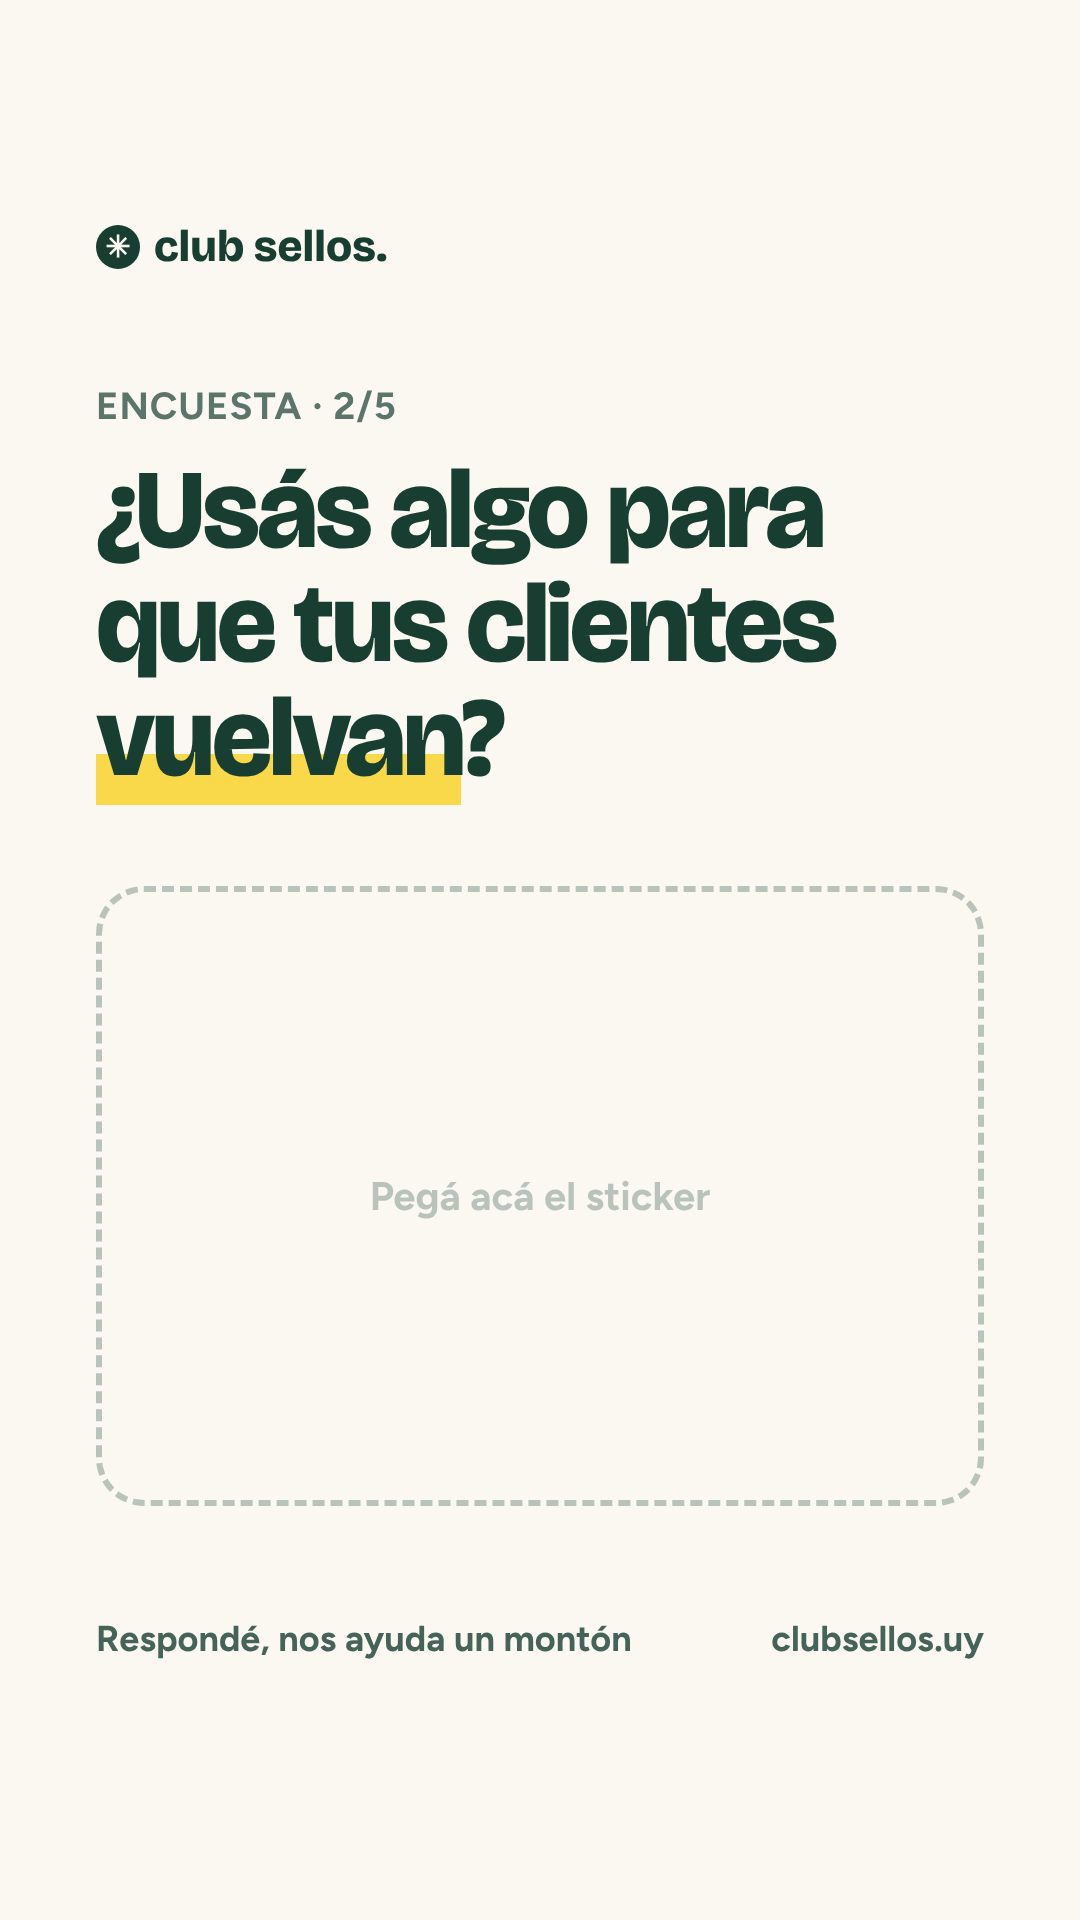
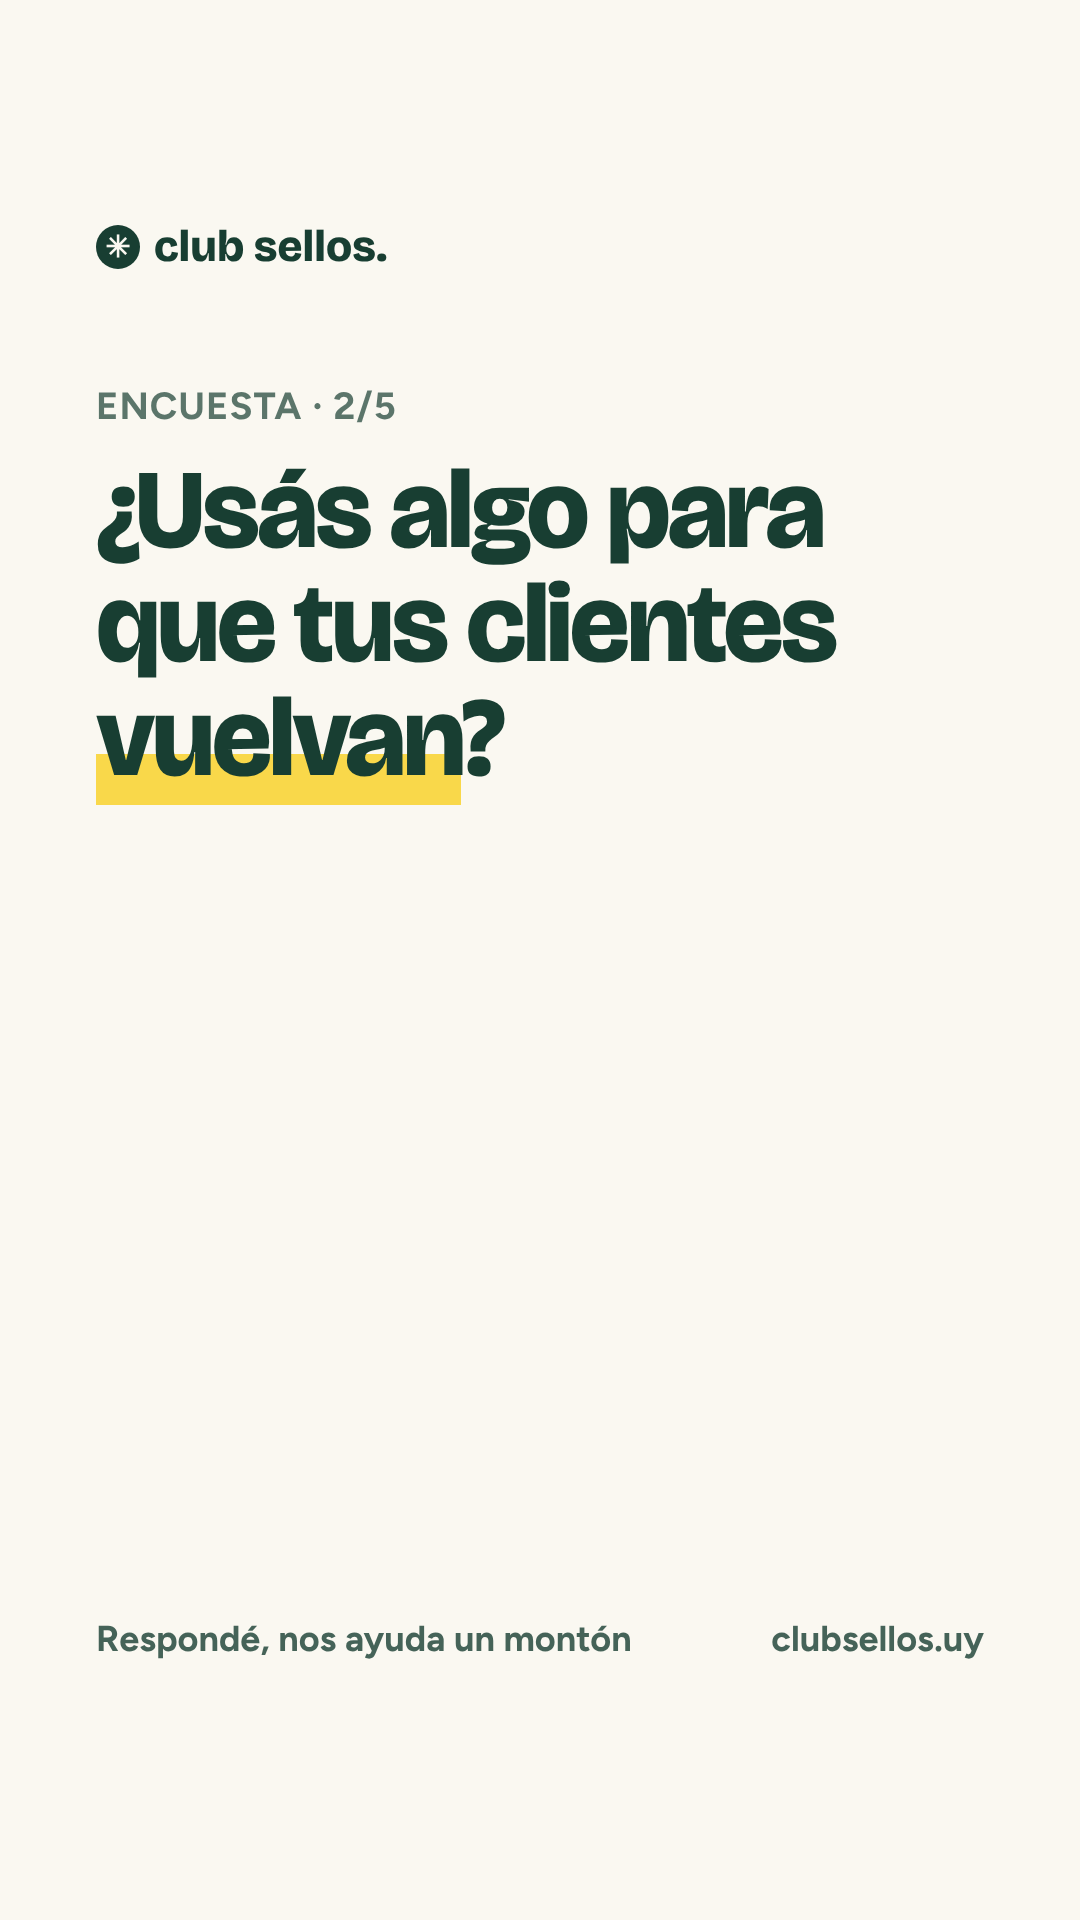
Encuesta: sin el recuadro punteado

diff --git a/2026-11-encuesta/historias.html b/2026-11-encuesta/historias.html
@@ -11,11 +11,11 @@
 h1{font-family:B;font-weight:800;letter-spacing:-3px;line-height:1.02;font-size:112px;margin-top:24px}
 .hl{color:#f9d84a}.p .hl,.y .hl{background:linear-gradient(transparent 62%,rgba(24,62,50,.18) 62%);color:inherit}
 .p .hl{background:linear-gradient(transparent 62%,#f9d84a 62%)}
-.slot{margin-top:90px;flex:1;border:6px dashed currentColor;opacity:.28;border-radius:48px;display:grid;place-items:center;font-size:40px;font-weight:700;max-height:620px}
+.slot{margin-top:90px;flex:1;max-height:620px}
 .foot{margin-top:auto;padding-top:60px;font-size:36px;font-weight:700;display:flex;justify-content:space-between;opacity:.8}
 </style></head><body><section class="s g" id="s1"><div class="logo"><i></i>club sellos.</div><div class="k">Encuesta · 1/5</div>
-<h1>¿Tenés <span class='hl'>local</span> o negocio?</h1><div class="slot">Pegá acá el sticker</div><div class="foot"><span>Respondé, nos ayuda un montón</span><span>clubsellos.uy</span></div></section><section class="s p" id="s2"><div class="logo"><i></i>club sellos.</div><div class="k">Encuesta · 2/5</div>
-<h1>¿Usás algo para que tus clientes <span class='hl'>vuelvan</span>?</h1><div class="slot">Pegá acá el sticker</div><div class="foot"><span>Respondé, nos ayuda un montón</span><span>clubsellos.uy</span></div></section><section class="s g" id="s3"><div class="logo"><i></i>club sellos.</div><div class="k">Encuesta · 3/5</div>
-<h1>¿Qué te importa <span class='hl'>más</span>?</h1><div class="slot">Pegá acá el sticker</div><div class="foot"><span>Respondé, nos ayuda un montón</span><span>clubsellos.uy</span></div></section><section class="s y" id="s4"><div class="logo"><i></i>club sellos.</div><div class="k">Encuesta · 4/5</div>
-<h1>Una tarjeta de sellos digital a <span class='hl'>$&nbsp;1.290 + IVA</span> por mes es…</h1><div class="slot">Pegá acá el sticker</div><div class="foot"><span>Respondé, nos ayuda un montón</span><span>clubsellos.uy</span></div></section><section class="s g" id="s5"><div class="logo"><i></i>club sellos.</div><div class="k">Encuesta · 5/5</div>
-<h1>¿Qué te haría <span class='hl'>probar</span> algo así en tu local?</h1><div class="slot">Pegá acá el sticker</div><div class="foot"><span>Respondé, nos ayuda un montón</span><span>clubsellos.uy</span></div></section></body></html>
+<h1>¿Tenés <span class='hl'>local</span> o negocio?</h1><div class="slot"></div><div class="foot"><span>Respondé, nos ayuda un montón</span><span>clubsellos.uy</span></div></section><section class="s p" id="s2"><div class="logo"><i></i>club sellos.</div><div class="k">Encuesta · 2/5</div>
+<h1>¿Usás algo para que tus clientes <span class='hl'>vuelvan</span>?</h1><div class="slot"></div><div class="foot"><span>Respondé, nos ayuda un montón</span><span>clubsellos.uy</span></div></section><section class="s g" id="s3"><div class="logo"><i></i>club sellos.</div><div class="k">Encuesta · 3/5</div>
+<h1>¿Qué te importa <span class='hl'>más</span>?</h1><div class="slot"></div><div class="foot"><span>Respondé, nos ayuda un montón</span><span>clubsellos.uy</span></div></section><section class="s y" id="s4"><div class="logo"><i></i>club sellos.</div><div class="k">Encuesta · 4/5</div>
+<h1>Una tarjeta de sellos digital a <span class='hl'>$&nbsp;1.290 + IVA</span> por mes es…</h1><div class="slot"></div><div class="foot"><span>Respondé, nos ayuda un montón</span><span>clubsellos.uy</span></div></section><section class="s g" id="s5"><div class="logo"><i></i>club sellos.</div><div class="k">Encuesta · 5/5</div>
+<h1>¿Qué te haría <span class='hl'>probar</span> algo así en tu local?</h1><div class="slot"></div><div class="foot"><span>Respondé, nos ayuda un montón</span><span>clubsellos.uy</span></div></section></body></html>
